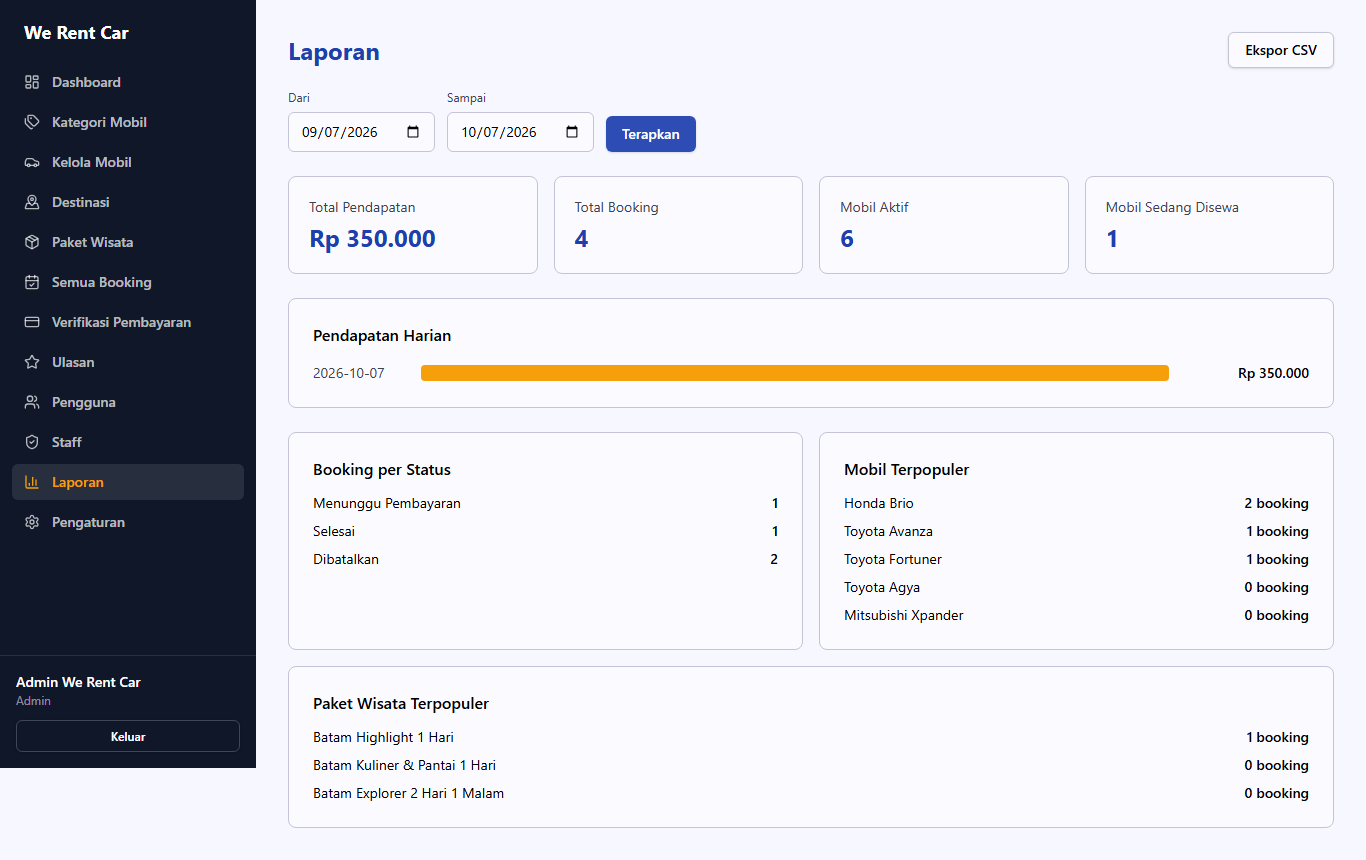
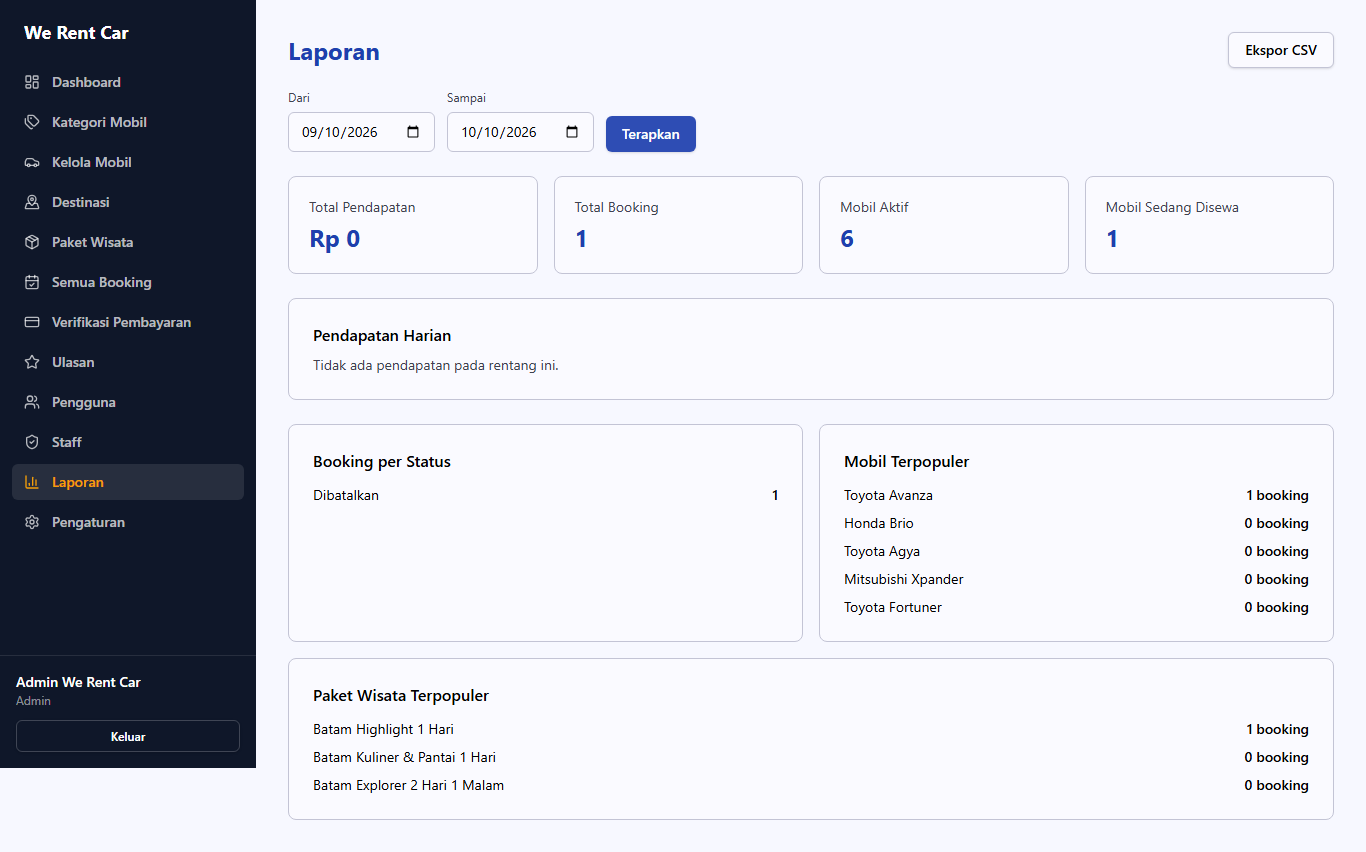
fix bug

diff --git a/app/Http/Controllers/Admin/AdminReportController.php b/app/Http/Controllers/Admin/AdminReportController.php
@@ -8,13 +8,13 @@ use App\Models\Payment;
 use App\Models\TourPackage;
 use App\Models\Vehicle;
 use Illuminate\Http\Request;
-use Illuminate\Http\Response as HttpResponse;
 use Illuminate\Routing\Controllers\HasMiddleware;
 use Illuminate\Routing\Controllers\Middleware;
 use Illuminate\Support\Carbon;
 use Illuminate\Support\Facades\DB;
 use Inertia\Inertia;
 use Inertia\Response;
+use Symfony\Component\HttpFoundation\StreamedResponse;
 
 class AdminReportController extends Controller implements HasMiddleware
 {
@@ -36,7 +36,7 @@ class AdminReportController extends Controller implements HasMiddleware
         ]);
     }
 
-    public function export(Request $request): HttpResponse
+    public function export(Request $request): StreamedResponse
     {
         [$from, $to] = $this->range($request);
         $daily = $this->dailyRevenue($from, $to);

diff --git a/tests/Feature/ReportTest.php b/tests/Feature/ReportTest.php
@@ -58,3 +58,11 @@ test('admin sees revenue that matches verified payments', function () {
             ->where('stats.total_bookings', 1)
         );
 });
+
+test('admin can export the report as csv', function () {
+    $response = $this->actingAs($this->admin)->get('/admin/laporan/ekspor');
+
+    $response->assertOk();
+    $response->assertHeader('content-type', 'text/csv; charset=utf-8');
+    expect($response->streamedContent())->toContain('Tanggal,Pendapatan');
+});

diff --git a/bukti/hasil.md b/bukti/hasil.md
@@ -1,8 +1,8 @@
 # Hasil Pengujian Blackbox — We Rent Car
 
-Dihasilkan otomatis oleh suite Playwright pada 2026-10-07T12:36:10.843Z.
+Dihasilkan otomatis oleh suite Playwright pada 2026-10-10T11:17:10.204Z.
 
-Total skenario: **71** — Lolos: **67** · Gagal: **4** · Perlu foto manual: **0**
+Total skenario: **71** — Lolos: **68** · Gagal: **3** · Perlu foto manual: **0**
 
 | ID | Status | Berkas | Catatan |
 |---|---|---|---|
@@ -39,8 +39,8 @@ Total skenario: **71** — Lolos: **67** · Gagal: **4** · Perlu foto manual: *
 | BB-12-03 | Lolos | `BB-12-03-a.png`, `BB-12-03-b.png` | Perubahan centang permission "Hapus data mobil" untuk role staff berhasil disimpan (lalu dikembalikan ke kondisi semula). |
 | BB-13-01 | Lolos | `BB-13-01.png` | Perubahan nomor rekening bank tersimpan (nilai semula dikembalikan setelah pengecekan). |
 | BB-13-02 | GAGAL | `BB-13-02-a.png`, `BB-13-02-b.png` | GAGAL (temuan bug nyata, bukan masalah skrip uji): judul hero berhasil tersimpan di halaman Pengaturan (muncul notifikasi sukses), tetapi perubahan itu TIDAK tampil sama sekali di halaman Beranda publik. Penyebab: HomeController@index (app/Http/Controllers/HomeController.php) tidak pernah mengambil/mengirim setting "homepage_hero_title" atau "homepage_hero_subtitle" ke halaman Home, dan resources/js/pages/Home.vue menampilkan judul hero sebagai teks statis ("Jelajahi Batam, Tanpa Ribet") yang di-hardcode, bukan dari data pengaturan. Field pengaturan ini saat ini tidak berfungsi sama sekali bagi pengunjung. Tidak diperbaiki di sini sesuai aturan "jangan mengubah kode aplikasi tanpa persetujuan" - perlu keputusan pemilik produk apakah homepage perlu dihubungkan ke setting ini atau field ini sebaiknya dihapus dari halaman Pengaturan. |
-| BB-14-01 | Lolos | `BB-14-01.png` | Laporan menampilkan data sesuai rentang tanggal 2026-09-07 s.d. 2026-10-07. |
-| BB-14-02 | GAGAL | `BB-14-02.png` | GAGAL (temuan bug nyata, bukan masalah skrip uji): klik "Ekspor CSV" menghasilkan HTTP 500 Internal Server Error, bukan file terunduh. Penyebab: AdminReportController::export() (app/Http/Controllers/Admin/AdminReportController.php baris 39-51) mendeklarasikan tipe kembalian "Illuminate\Http\Response", padahal isi methodnya mengembalikan response()->streamDownload(...) yang sebenarnya bertipe Symfony\Component\HttpFoundation\StreamedResponse - bukan turunan dari Illuminate\Http\Response. PHP melempar TypeError fatal setiap kali endpoint ini diakses, sehingga fitur ekspor laporan sama sekali tidak berfungsi saat ini. Tidak diperbaiki di sini sesuai aturan "jangan mengubah kode aplikasi tanpa persetujuan" - perbaikannya cukup sederhana (ganti tipe kembalian method menjadi Symfony\Component\HttpFoundation\StreamedResponse atau hapus deklarasi tipe), tapi perlu persetujuan pemilik produk. |
+| BB-14-01 | Lolos | `BB-14-01.png` | Laporan menampilkan data sesuai rentang tanggal 2026-09-10 s.d. 2026-10-10. |
+| BB-14-02 | Lolos | `BB-14-02.png` | Berkas CSV berhasil terunduh: laporan-pendapatan.csv. |
 | BB-15-01 | Lolos | `BB-15-01.png` | Registrasi dengan data valid berhasil, akun otomatis masuk. Catatan: redirect sesungguhnya menuju Dashboard Pelanggan (/dashboard), bukan Beranda seperti disebut pada dokumen test case awal - deskripsi skenario sudah diperbarui agar sesuai perilaku nyata aplikasi (lihat juga activity-flow.md modul 1.1). |
 | BB-15-02 | Lolos | `BB-15-02.png` | Pesan validasi email sudah terdaftar tampil. Catatan: proyek belum punya berkas bahasa Indonesia untuk pesan validasi Laravel bawaan, sehingga teksnya berbahasa Inggris ("The email has already been taken.") meskipun APP_LOCALE=id. |
 | BB-15-03 | Lolos | `BB-15-03.png` | Field email dikosongkan, dicegah lewat validasi bawaan browser (atribut "required"). Pesan browser: "Please fill out this field.". |

diff --git a/blackbox-playwright/README.md b/blackbox-playwright/README.md
@@ -111,21 +111,22 @@ blackbox-playwright/
 
 ## Skenario yang gagal (temuan bug nyata aplikasi)
 
-Empat skenario di `hasil.md` berstatus **GAGAL** bukan karena skrip ujinya
-salah, melainkan karena aplikasi memang berperilaku tidak sesuai ekspektasi
-dokumen test case. Rinciannya ada di kolom "Catatan" masing-masing baris di
+Skenario di `hasil.md` berstatus **GAGAL** bukan karena skrip ujinya salah,
+melainkan karena aplikasi memang berperilaku tidak sesuai ekspektasi dokumen
+test case. Rinciannya ada di kolom "Catatan" masing-masing baris di
 `hasil.md`/`manifest.json`; ringkasannya:
 
-| ID | Temuan |
-|---|---|
-| `BB-11-01` | Menonaktifkan akun pelanggan/staff di panel admin tidak benar-benar memblokir login - `AuthController@login` tidak pernah memeriksa kolom `status`. |
-| `BB-13-02` | Mengubah "Judul Hero" di halaman Pengaturan tidak berpengaruh ke Beranda - `HomeController` tidak mengirim setting tsb dan `Home.vue` memakai teks statis. |
-| `BB-14-02` | Tombol "Ekspor CSV" di halaman Laporan selalu menghasilkan HTTP 500 - `AdminReportController::export()` salah mendeklarasikan tipe kembalian method (`Illuminate\Http\Response` padahal mengembalikan `StreamedResponse`). |
-| `BB-19-04` | Dua pelanggan berbeda bisa mendapat pesanan mobil pada mobil & tanggal yang identik selama keduanya belum mengunggah bukti transfer - `Vehicle::isAvailableFor()` tidak menghitung status `menunggu_pembayaran` sebagai penahan tanggal. |
+| ID | Temuan | Status |
+|---|---|---|
+| `BB-11-01` | Menonaktifkan akun pelanggan/staff di panel admin tidak benar-benar memblokir login - `AuthController@login` tidak pernah memeriksa kolom `status`. | Belum diperbaiki |
+| `BB-13-02` | Mengubah "Judul Hero" di halaman Pengaturan tidak berpengaruh ke Beranda - `HomeController` tidak mengirim setting tsb dan `Home.vue` memakai teks statis. | Belum diperbaiki |
+| `BB-14-02` | Tombol "Ekspor CSV" di halaman Laporan selalu menghasilkan HTTP 500 - `AdminReportController::export()` salah mendeklarasikan tipe kembalian method (`Illuminate\Http\Response` padahal mengembalikan `StreamedResponse`). | **Diperbaiki (2026-10-10)** |
+| `BB-19-04` | Dua pelanggan berbeda bisa mendapat pesanan mobil pada mobil & tanggal yang identik selama keduanya belum mengunggah bukti transfer - `Vehicle::isAvailableFor()` tidak menghitung status `menunggu_pembayaran` sebagai penahan tanggal. | Belum diperbaiki |
 
 Sesuai aturan pada dokumen test case ("jangan mengubah kode aplikasi tanpa
-persetujuan"), keempatnya **tidak diperbaiki** sebagai bagian dari pembuatan
-suite ini.
+persetujuan"), yang belum diperbaiki sengaja tidak disentuh sebagai bagian
+dari pembuatan suite ini; `BB-14-02` diperbaiki atas permintaan eksplisit
+pemilik produk setelahnya.
 
 ## Skenario baru di luar 63 skenario awal
 

diff --git a/test-case-blackbox-playwright.md b/test-case-blackbox-playwright.md
@@ -219,7 +219,7 @@ Format ID: `BB-<nomor tabel dua digit>-<urutan dua digit>`. Kolom *Tabel* mengac
 | ID | Skenario | Test Case (langkah) | Ekspektasi | Catatan teknis / foto |
 |---|---|---|---|---|
 | `BB-14-01` | Memfilter rentang tanggal | Admin memilih tanggal dari-sampai, klik Terapkan | Sistem menampilkan data laporan sesuai rentang tanggal | Isi tanggal dari–sampai (rentang yang ada datanya). Foto laporan terfilter. |
-| `BB-14-02` | Mengekspor laporan | Admin klik Ekspor CSV | Berkas CSV laporan berhasil terunduh | Gunakan `page.waitForEvent("download")`. Foto halaman setelah klik + catat nama/ukuran file di laporan. Pastikan file terunduh (>0 byte). **Catatan hasil pengujian: skenario ini GAGAL di implementasi saat ini** - endpoint ekspor selalu error HTTP 500 (TypeError tipe kembalian method `AdminReportController::export()` salah). |
+| `BB-14-02` | Mengekspor laporan | Admin klik Ekspor CSV | Berkas CSV laporan berhasil terunduh | Gunakan `page.waitForEvent("download")`. Foto halaman setelah klik + catat nama/ukuran file di laporan. Pastikan file terunduh (>0 byte). **Diperbaiki (2026-10-10):** sempat GAGAL karena `AdminReportController::export()` salah mendeklarasikan tipe kembalian method (`Illuminate\Http\Response`, padahal `response()->streamDownload()` mengembalikan `Symfony\Component\HttpFoundation\StreamedResponse`); sudah dikoreksi dan sekarang lolos. |
 
 ### Tabel 5.15 — Pengujian Registrasi Akun
 
